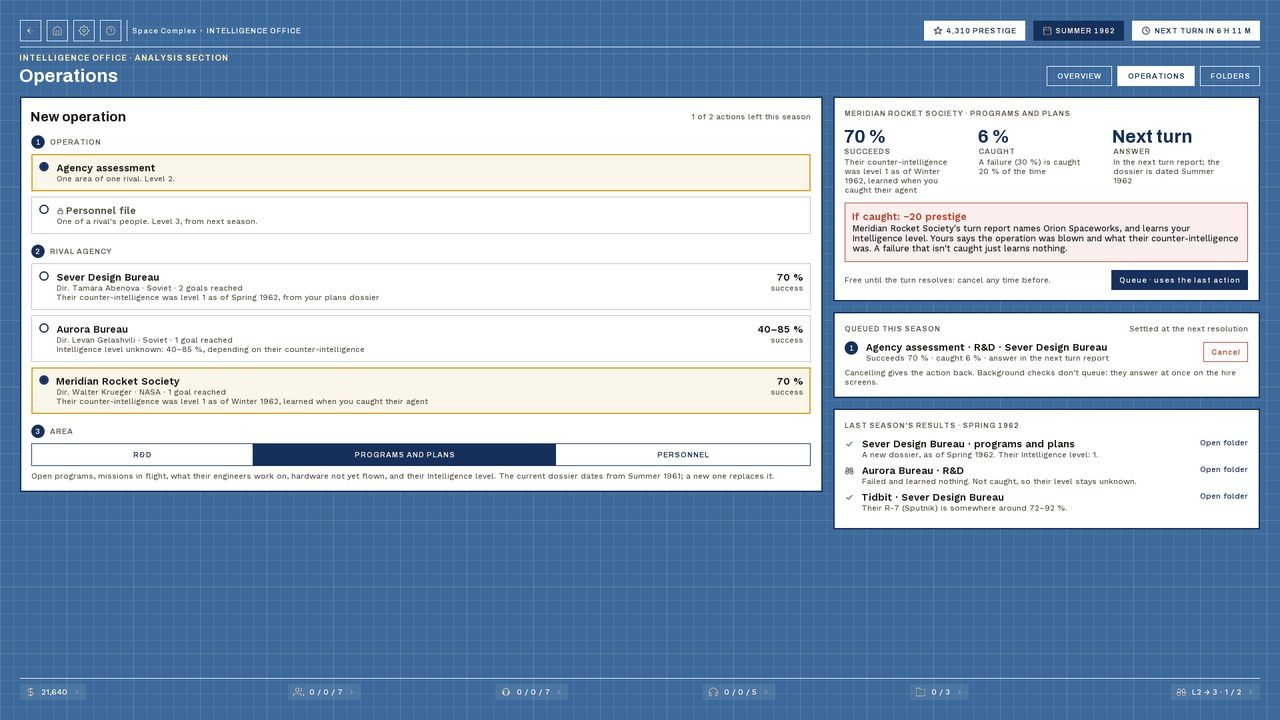
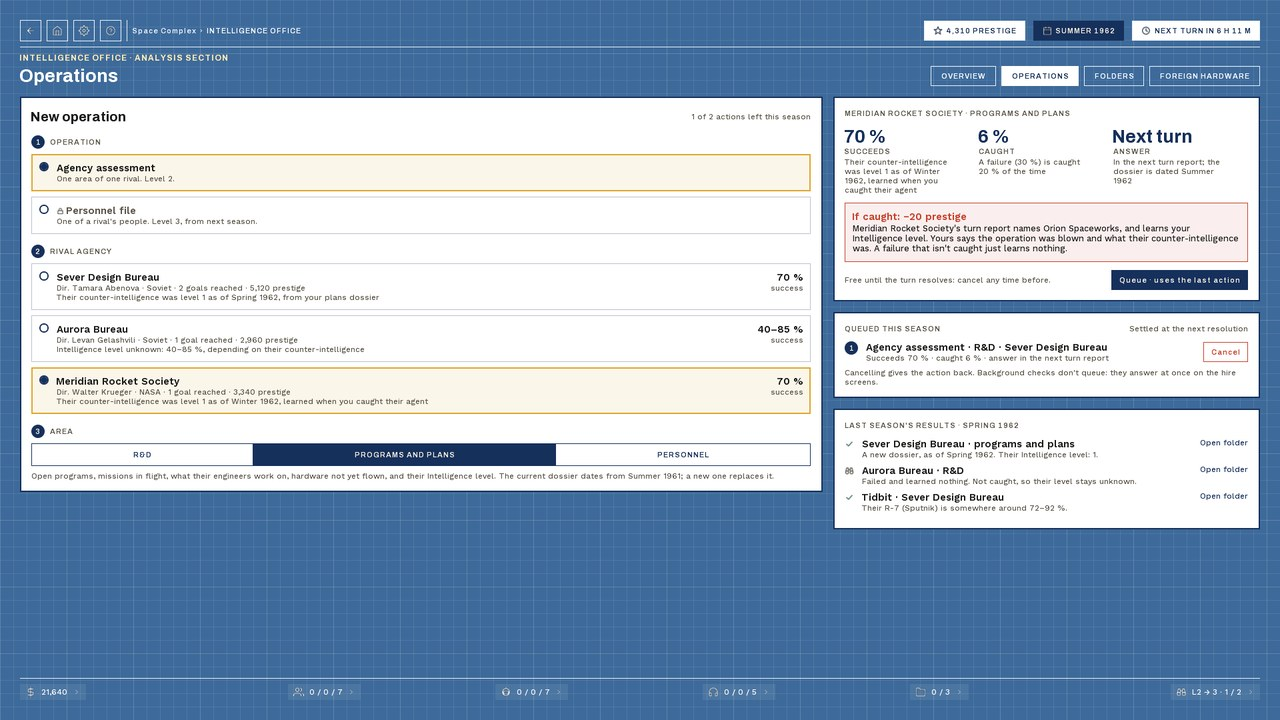
The wiki's pictures show the standing: the result's chart, the prestige topic's section
The result shots had no curves and the fixture's own agency no prestige, so the
wiki's win screen had no chart. The prestige help topic gains "Over time", with
a picture of the Standing tab. The README's screenshots are remade.

Claude-Session: https://claude.ai/code/session_01U2BtyDvhyy4M6JdWFZoDyX

diff --git a/lwjgl3/src/test/java/de/mkoehler/launchwindow/lwjgl3/ScreenSnapshot.java b/lwjgl3/src/test/java/de/mkoehler/launchwindow/lwjgl3/ScreenSnapshot.java
@@ -2534,6 +2534,19 @@ public final class ScreenSnapshot {
         return state;
     }
 
+    /** An agency's curve for the result shots: 25 points, ending on the figure the race table shows. */
+    private static de.mkoehler.launchwindow.net.messages.StandingSeries resultStanding(RivalSummary agency) {
+        long[][] steps = agency.goalTurns().values().stream().map(turn -> new long[] {turn, 700L})
+            .toArray(long[][]::new);
+        long[] raw = curve(25, 250, 60, steps, agency.agencyName().hashCode());
+        long[] prestige = new long[raw.length];
+        for (int i = 0; i < raw.length; i++) {
+            prestige[i] = 250L + (raw[i] - 250L) * (agency.prestige() - 250L) / Math.max(1L, raw[raw.length - 1] - 250L);
+        }
+        return new de.mkoehler.launchwindow.net.messages.StandingSeries(agency.agencyName(), agency.you(), agency.bot(),
+            agency.playerId(), 0, prestige, agency.you() ? funds(25, -1) : new long[0], new long[0], new long[0]);
+    }
+
     /** A stepped curve: climbs at the steps, drifts between them, the same every run. */
     private static long[] curve(int points, long start, long perSeason, long[][] steps, int seed) {
         long[] values = new long[points];
@@ -2916,14 +2929,18 @@ public final class ScreenSnapshot {
             24);
         startSession(game, state, won);
         RivalSummary me = RivalSummary.of(state.getAgencyName(), state.getDirectorName(), Archetype.SOVIET, true,
-            Map.of("earth-orbit-satellite", 12, "human-in-space", 24, "human-in-orbit", 24));
+            Map.of("earth-orbit-satellite", 12, "human-in-space", 24, "human-in-orbit", 24), "kMe", false,
+            state.getPrestige());
         List<RivalSummary> rivals = List.of(me,
-            RivalSummary.of("Orion Spaceworks", "Ana Reyes", Archetype.NASA, false, Map.of("earth-orbit-satellite", 11), "", false, 3880),
+            RivalSummary.of("Orion Spaceworks", "Ana Reyes", Archetype.NASA, false, Map.of("earth-orbit-satellite", 11), "kOrion", false, 3880),
             RivalSummary.of("Kestrel Aerospace", "Moses Okafor", Archetype.NASA, false,
-                Map.of("earth-orbit-satellite", 13), "", false, 2140),
+                Map.of("earth-orbit-satellite", 13), "kKestrel", false, 2140),
             RivalSummary.of("Polar Star Bureau", "Vera Sedova", Archetype.SOVIET, false,
-                Map.of("earth-orbit-satellite", 14), "", false, 1760));
+                Map.of("earth-orbit-satellite", 14), "kPolar", false, 1760));
+        List<de.mkoehler.launchwindow.net.messages.StandingSeries> standing = rivals.stream()
+            .map(ScreenSnapshot::resultStanding).toList();
         game.session().keepRivals(rivals);
+        game.session().keepStanding(standing);
         write(folder, "museum-race.png", new MuseumScreen(game, MuseumScreen.Tab.RACE), null);
         write(folder, "museum-achievements.png", new MuseumScreen(game, MuseumScreen.Tab.ACHIEVEMENTS), null);
         write(folder, "museum-flights.png", new MuseumScreen(game, MuseumScreen.Tab.FLIGHTS), null);
@@ -2940,8 +2957,9 @@ public final class ScreenSnapshot {
         startSession(game, state, medal);
         game.session().keepRivals(List.of(me,
             RivalSummary.of("Orion Spaceworks", "Ana Reyes", Archetype.NASA, false,
-                Map.of("earth-orbit-satellite", 11, "human-in-space", 20, "human-in-orbit", 24), "", false, 3880),
+                Map.of("earth-orbit-satellite", 11, "human-in-space", 20, "human-in-orbit", 24), "kOrion", false, 3880),
             rivals.get(2), rivals.get(3)));
+        game.session().keepStanding(standing);
         write(folder, "result-medal.png", new SpaceComplexScreen(game), SpaceComplexScreen::showResult);
 
         // An exact tie: level on every place of the medal table.
@@ -2951,8 +2969,9 @@ public final class ScreenSnapshot {
         startSession(game, state, tie);
         game.session().keepRivals(List.of(me,
             RivalSummary.of("Orion Spaceworks", "Ana Reyes", Archetype.NASA, false,
-                Map.of("earth-orbit-satellite", 12, "human-in-space", 24, "human-in-orbit", 24), "", false, 3880),
+                Map.of("earth-orbit-satellite", 12, "human-in-space", 24, "human-in-orbit", 24), "kOrion", false, 3880),
             rivals.get(2), rivals.get(3)));
+        game.session().keepStanding(standing);
         write(folder, "result-tie.png", new SpaceComplexScreen(game), SpaceComplexScreen::showResult);
 
         // No losses yet: the memorial's empty state.

diff --git a/dev-tools/src/main/java/de/mkoehler/launchwindow/devtools/HelpWiki.java b/dev-tools/src/main/java/de/mkoehler/launchwindow/devtools/HelpWiki.java
@@ -86,7 +86,8 @@ public final class HelpWiki {
             new Screen("report", "A turn report: the summary across the top, then missions, R&D, people and the budget.",
                 null));
         screens("winning",
-            new Screen("result-won", "The race is decided: the result over the Space Complex.", null));
+            new Screen("result-won", "The race is decided: the result, with the whole game's prestige, over the Space "
+                + "Complex.", null));
         screens("museum",
             new Screen("museum-achievements", "The Museum's Achievements tab: every goal, reached or open.", null),
             new Screen("museum-encyclopedia", "The Encyclopedia tab: explainers on how the real thing works.", null));
@@ -95,7 +96,9 @@ public final class HelpWiki {
         screens("prestige",
             new Screen("plan-configs", "A program's mission configurations, each with the prestige it pays.",
                 "From missions"),
-            new Screen("museum-achievements", "The Museum's Achievements: what each goal paid, or would pay.", "Goals"));
+            new Screen("museum-achievements", "The Museum's Achievements: what each goal paid, or would pay.", "Goals"),
+            new Screen("standing-everyone", "The Standing tab with everyone on: your prestige beside your rivals', and "
+                + "your funds below.", "Over time"));
         screens("random-events",
             new Screen("report-news", "Random events in the turn report's news, under the season's real story.", null));
         screens("contracts",
